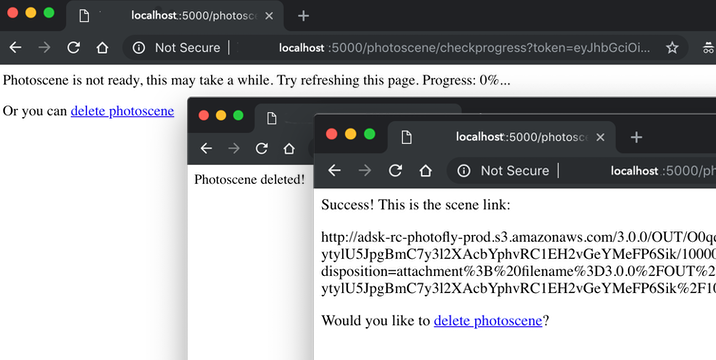
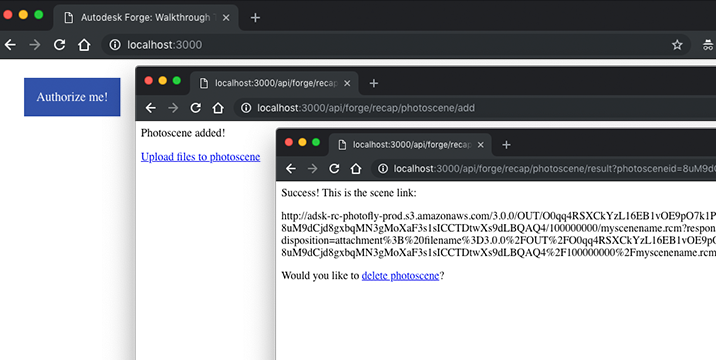
Fixed OAuth to 2-legged instead. Changed port to 3000. Change route naming convention. Improved Readme.md to align with FPD.

diff --git a/start.js b/start.js
@@ -29,8 +29,8 @@ var app = express();
 app.use(bodyParser.json());
 app.use(express.static(__dirname + '/www'));
 
-// This is for web server to start listening to port 5000
-app.set('port', 5000);
+// This is for web server to start listening to port 3000
+app.set('port', 3000);
 var server = app.listen(app.get('port'), function () {
     console.log('Server listening on port ' + server.address().port);
 });
@@ -40,45 +40,32 @@ var server = app.listen(app.get('port'), function () {
 // Initialize the 2-legged OAuth2 client, set specific scopes and
 // set the token to auto refresh
 //-------------------------------------------------------------------
-var FORGE_CLIENT_ID = '<REPLACE_WITH_FORGE_CLIENT_ID>';
-var FORGE_CLIENT_SECRET = '<REPLACE_WITH_FORGE_CLIENT_SECRET>';
-var FORGE_CALLBACK_URL = 'http://localhost:5000/callback';
+var FORGE_CLIENT_ID = process.env.FORGE_CLIENT_ID;
+var FORGE_CLIENT_SECRET = process.env.FORGE_CLIENT_SECRET;
+var access_token = '';
 var scopes = 'data:read data:write';
 const querystring = require('querystring');
 
-// Route /auth
-// Redirect to Autodesk sign in page for end user to login
-app.get('/auth', function (req, res) {
-    var redirect_uri = 'https://developer.api.autodesk.com/authentication/v1/authorize?'
-    + 'response_type=code'
-    + '&client_id=' + FORGE_CLIENT_ID
-    + '&redirect_uri=' + encodeURIComponent(FORGE_CALLBACK_URL)
-    + '&scope=' + encodeURIComponent(scopes);
-    res.redirect(redirect_uri);
-});
-
-// Route /callback
-// Get Authorization code from Autodesk signin
-app.get('/callback', function (req, res) {
+// // Route /api/forge/oauth
+app.get('/api/forge/oauth', function (req, res) {
     Axios({
         method: 'POST',
-        url: 'https://developer.api.autodesk.com/authentication/v1/gettoken',
+        url: 'https://developer.api.autodesk.com/authentication/v1/authenticate',
         headers: {
             'content-type': 'application/x-www-form-urlencoded',
         },
         data: querystring.stringify({
             client_id: FORGE_CLIENT_ID,
             client_secret: FORGE_CLIENT_SECRET,
-            grant_type: 'authorization_code',
-            code: req.query.code,
-            redirect_uri: FORGE_CALLBACK_URL
+            grant_type: 'client_credentials',
+            scope: scopes
         })
     })
         .then(function (response) {
             // Success
             access_token = response.data.access_token;
             console.log(response);
-            res.send('<p>Authentication success!</p><a href="/photoscene/add?token=' + access_token + '">Add a photoscene</a>');
+            res.send('<p>Authentication success!</p><a href="/api/forge/recap/photoscene/add">Add a photoscene</a>');
         })
         .catch(function (error) {
             // Failed
@@ -87,10 +74,9 @@ app.get('/callback', function (req, res) {
         });
 });
 
-// Route /photoscene/add
+// Route /api/forge/recap/photoscene/add
 // Creates and initializes a photoscene for reconstruction.
-app.get('/photoscene/add', function (req, res) {
-    var access_token = req.query.token;
+app.get('/api/forge/recap/photoscene/add', function (req, res) {
     Axios({
         method: 'POST',
         url: 'https://developer.api.autodesk.com/photo-to-3d/v1/photoscene',
@@ -110,7 +96,7 @@ app.get('/photoscene/add', function (req, res) {
                 res.send(response.data.Error.msg);
             }
             var photosceneId = response.data.Photoscene.photosceneid;
-            var nextLink = '/photoscene/upload?token=' + access_token + '&photosceneid=' + photosceneId;
+            var nextLink = '/api/forge/recap/photoscene/upload?photosceneid=' + photosceneId;
             res.send('<p>Photoscene added!</p><a href="' + nextLink + '">Upload files to photoscene</a>');
         })
         .catch(function (error) {
@@ -120,10 +106,9 @@ app.get('/photoscene/add', function (req, res) {
         });
 });
 
-// Route /photoscene/upload
+// Route /api/forge/recap/photoscene/upload
 // Adds one or more files to a photoscene.
-app.get('/photoscene/upload', function (req, res) {
-    var access_token = req.query.token;
+app.get('/api/forge/recap/photoscene/upload', function (req, res) {
     var photosceneId = req.query.photosceneid;
     Axios({
         method: 'POST',
@@ -151,7 +136,7 @@ app.get('/photoscene/upload', function (req, res) {
                 res.send(response.data.Error.msg);
             }
             console.log(JSON.stringify(response.data.Files));
-            var nextLink = '/photoscene/process?token=' + access_token + '&photosceneid=' + photosceneId;
+            var nextLink = '/api/forge/recap/photoscene/process?photosceneid=' + photosceneId;
             res.send('<p>Files added to photoscene!</p><a href="' + nextLink + '">Begin processing photoscene</a>');
         })
         .catch(function (error) {
@@ -161,10 +146,9 @@ app.get('/photoscene/upload', function (req, res) {
         });
 });
 
-// Route /photoscene/process
+// Route /api/forge/recap/photoscene/process
 // Starts photoscene processing.
-app.get('/photoscene/process', function (req, res) {
-    var access_token = req.query.token;
+app.get('/api/forge/recap/photoscene/process', function (req, res) {
     var photosceneId = req.query.photosceneid;
     Axios({
         method: 'POST',
@@ -180,7 +164,7 @@ app.get('/photoscene/process', function (req, res) {
             if (response.data.Error) {
                 res.send(response.data.Error.msg);
             }
-            var nextLink = '/photoscene/checkprogress?token=' + access_token + '&photosceneid=' + photosceneId;
+            var nextLink = '/api/forge/recap/photoscene/checkprogress?photosceneid=' + photosceneId;
             res.send('<p>Photoscene is being processed!</p><a href="' + nextLink + '">Check progress of photoscene</a>');
         })
         .catch(function (error) {
@@ -190,10 +174,9 @@ app.get('/photoscene/process', function (req, res) {
         });
 });
 
-// Route /photoscene/checkprogress
+// Route /api/forge/recap/photoscene/checkprogress
 // Returns the processing progress and status of a photoscene.
-app.get('/photoscene/checkprogress', function (req, res) {
-    var access_token = req.query.token;
+app.get('/api/forge/recap/photoscene/checkprogress', function (req, res) {
     var photosceneId = req.query.photosceneid;
     Axios({
         method: 'GET',
@@ -210,11 +193,11 @@ app.get('/photoscene/checkprogress', function (req, res) {
                 res.send(response.data.Error.msg);
             }
             if (response.data.Photoscene && response.data.Photoscene.progressmsg == 'DONE') {
-                var nextLink = '/photoscene/result?token=' + access_token + '&photosceneid=' + photosceneId;
+                var nextLink = '/api/forge/recap/photoscene/result?photosceneid=' + photosceneId;
                 res.send('<p>Photoscene process is complete!</p><a href="' + nextLink + '">View result of photoscene</a>');
             } else {
-                var nextLink = '/photoscene/delete?token=' + access_token + '&photosceneid=' + photosceneId;
-                res.send('<p>Photoscene is not ready, this may take a while. Try refreshing this page. Progress: ' + response.data.Photoscene.progress + '%...</p>');
+                var nextLink = '/api/forge/recap/photoscene/delete?photosceneid=' + photosceneId;
+                res.send('<p>Photoscene is not ready, this may take a while. Try refreshing <a href="/api/forge/recap/photoscene/checkprogress?photosceneid=' +  photosceneId + '">this page</a>. Progress: ' + response.data.Photoscene.progress + '%...</p>');
             }
             
         })
@@ -225,10 +208,9 @@ app.get('/photoscene/checkprogress', function (req, res) {
         });
 });
 
-// Route /photoscene/result
+// Route /api/forge/recap/photoscene/result
 // Returns a time-limited HTTPS link to an output file of the specified format.
-app.get('/photoscene/result', function (req, res) {
-    var access_token = req.query.token;
+app.get('/api/forge/recap/photoscene/result', function (req, res) {
     var photosceneId = req.query.photosceneid;
     Axios({
         method: 'GET',
@@ -245,11 +227,11 @@ app.get('/photoscene/result', function (req, res) {
                 res.send(response.data.Error.msg);
             }
             if (response.data.Photoscene && response.data.Photoscene.progressmsg == 'DONE') {
-                var nextLink = '/photoscene/delete?token=' + access_token + '&photosceneid=' + photosceneId;
+                var nextLink = '/api/forge/recap/photoscene/delete?photosceneid=' + photosceneId;
                 res.send('<p>Success! This is the scene link:</p><p>' + response.data.Photoscene.scenelink + '</p>'
                     + 'Would you like to <a href="' + nextLink + '">delete photoscene</a>?');
             } else {
-                res.send('Photoscene is not ready. Try refreshing this page. Progress: ' + response.data.Photoscene.progress + '%...');
+                res.send('Photoscene is not ready. Try refreshing <a href="/api/forge/recap/photoscene/checkprogress?photosceneid=' +  photosceneId + '">this page</a>. Progress: ' + response.data.Photoscene.progress + '%...');
             }
             
         })
@@ -260,10 +242,9 @@ app.get('/photoscene/result', function (req, res) {
         });
 });
 
-// Route /photoscene/delete
+// Route /api/forge/recap/photoscene/delete
 // Deletes a photoscene and its associated assets (images, output files, ...).
-app.get('/photoscene/delete', function (req, res) {
-    var access_token = req.query.token;
+app.get('/api/forge/recap/photoscene/delete', function (req, res) {
     var photosceneId = req.query.photosceneid;
     Axios({
         method: 'DELETE',

diff --git a/www/index.html b/www/index.html
@@ -27,7 +27,7 @@
 
 <body>
     <main id="main">
-        <a href="/auth">Authorize me!</a>
+        <a href="/api/forge/oauth">Authorize me!</a>
     </main>
 </body>
 

diff --git a/README.md b/README.md
@@ -2,12 +2,15 @@
 
 [![Node.js](https://img.shields.io/badge/Node.js-8.11.1-blue.svg)](https://nodejs.org/)
 [![npm](https://img.shields.io/badge/npm-6.1.0-blue.svg)](https://www.npmjs.com/)
+![Platforms](https://img.shields.io/badge/platform-windows%20%7C%20osx%20%7C%20linux-lightgray.svg)
 [![License](http://img.shields.io/:license-mit-blue.svg)](http://opensource.org/licenses/MIT)
 
 [![oAuth2](https://img.shields.io/badge/oAuth2-v1-green.svg)](http://developer.autodesk.com/)
 [![Reality-Capture](https://img.shields.io/badge/Reality%20Capture-v1-green.svg)](http://developer.autodesk.com/)
 
-## Description
+# Description
+This sample is part of the [Photo to 3D Walkthrough](https://forge.autodesk.com/developer/learn/recap-app).
+
 This sample illustrates the Reality Capture API's photogrammetry workflow:
 - Create a photoscene
 - Add images to the photoscene
@@ -16,32 +19,63 @@ This sample illustrates the Reality Capture API's photogrammetry workflow:
 - Retrieve the generated 3D file
 - Delete the photoscene
 
-## Setup & Run
-1. Setup
-   - Install `npm` (if you haven't already).
-   - Install `npm` packages using the command `npm install`.
-     - Make sure that the current directory contains `package.json`.
-   - Ensure that in your hosts file you have mapped:
-     - `127.0.0.1 localhost`
-   - Replace the `FORGE_CLIENT_ID` and `FORGE_CLIENT_SECRET` variable values in `start.js` with your Forge credentials.
+## Thumbnail
+![thumbnail](/thumbnail.png)
 
-2. Execute `node start.js`
-   - The node server will listen on on port `5000`.
+# Setup
 
-3. Open a browser and navigate to `http://localhost:5000/`.
+## Prerequisites
 
-4. Click on the `Authorize me` link and login to your Autodesk account.
-   - In your console, you should see `Server listening on port 5000`.
-   - Once authenticated, click through the links on the browser to:
-      - Add a photoscene
-      - Upload files to photoscene
-      - Begin processing photoscene
-      - Check progress of photoscene (you will see the progress in percentage, keep refreshing until it's DONE)
-      - Delete photoscene
+1. A Forge account: [Getting Started with Forge](https://forge.autodesk.com/developer/getting-started)
+2. A text editor (We recommend http://brackets.io/ or https://atom.io/, it's up to you.)
+3. A basic knowledge of :
+    - HTML and CSS
+    - JavaScript ES6
+    - Command-line programs
+      - Node.js Command Line (for Windows users)
+      - Terminal (for Mac/Linux/Unix users)
+
+## Running locally
+
+Install [NodeJS](https://nodejs.org/) (version 8 or newer).
+
+Clone this project or download it. It's recommended to install [GitHub desktop](https://desktop.github.com/).
+
+To run it, install the required packages, set the enviroment variables with your client ID & secret and finally start it. Via command line, navigate to the folder where this repository was cloned and use the following:
+
+Mac OSX/Linux (Terminal)
+
+```bash
+npm install
+export FORGE_CLIENT_ID=<<YOUR CLIENT ID FROM DEVELOPER PORTAL>>
+export FORGE_CLIENT_SECRET=<<YOUR CLIENT SECRET>>
+npm start
+```
+
+Windows (use Node.js command line from Start menu)
+
+```bash
+npm install
+set FORGE_CLIENT_ID=<<YOUR CLIENT ID FROM DEVELOPER PORTAL>>
+set FORGE_CLIENT_SECRET=<<YOUR CLIENT SECRET>>
+npm start
+```
+
+Open a browser and navigate to http://localhost:3000.
+
+Click on the `Authorize me` link and then click through the links on the browser to:
+  - Add a photoscene
+  - Upload files to photoscene
+  - Begin processing photoscene
+  - Check progress of photoscene (you will see the progress in percentage, keep refreshing until it's DONE)
+  - Delete photoscene
 
 *NOTE:* _It may take several minutes to complete processing a photoscene._
 
 _For a small project (< 20 photos), it shouldn’t take more than 15 minutes to complete, otherwise it takes about 6 hours for 500 photos, and less than 16 hours for 1000 photos. The percentage progress is calibrated for larger projects (that take a few hours to process)._
 
-### Thumbnail
-![thumbnail](/thumbnail.png)
+# License
+This sample is licensed under the terms of the [MIT License](http://opensource.org/licenses/MIT). Please see the [LICENSE](LICENSE) file for full details.
+
+# Support
+forge.help@autodesk.com
